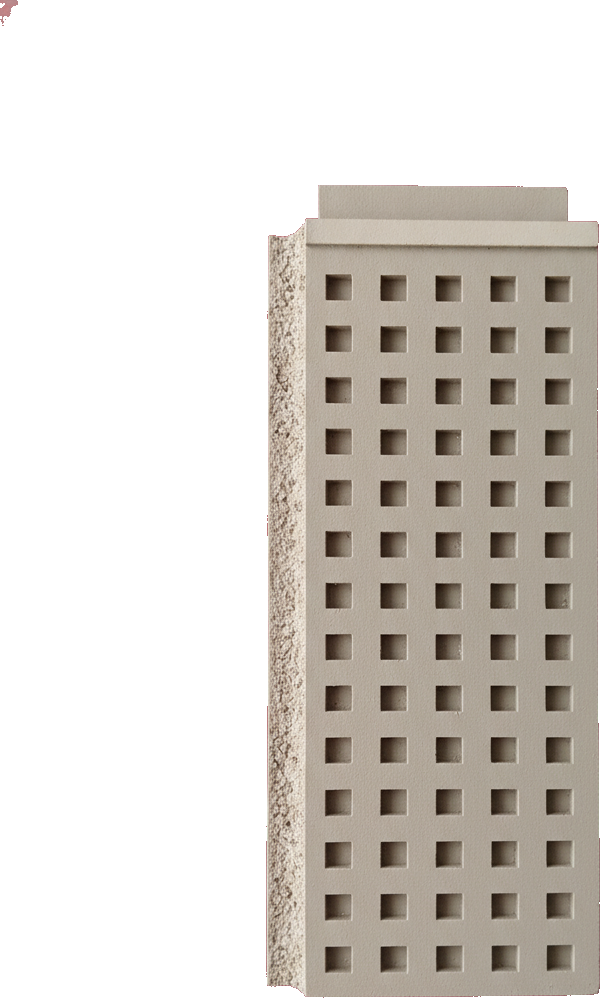
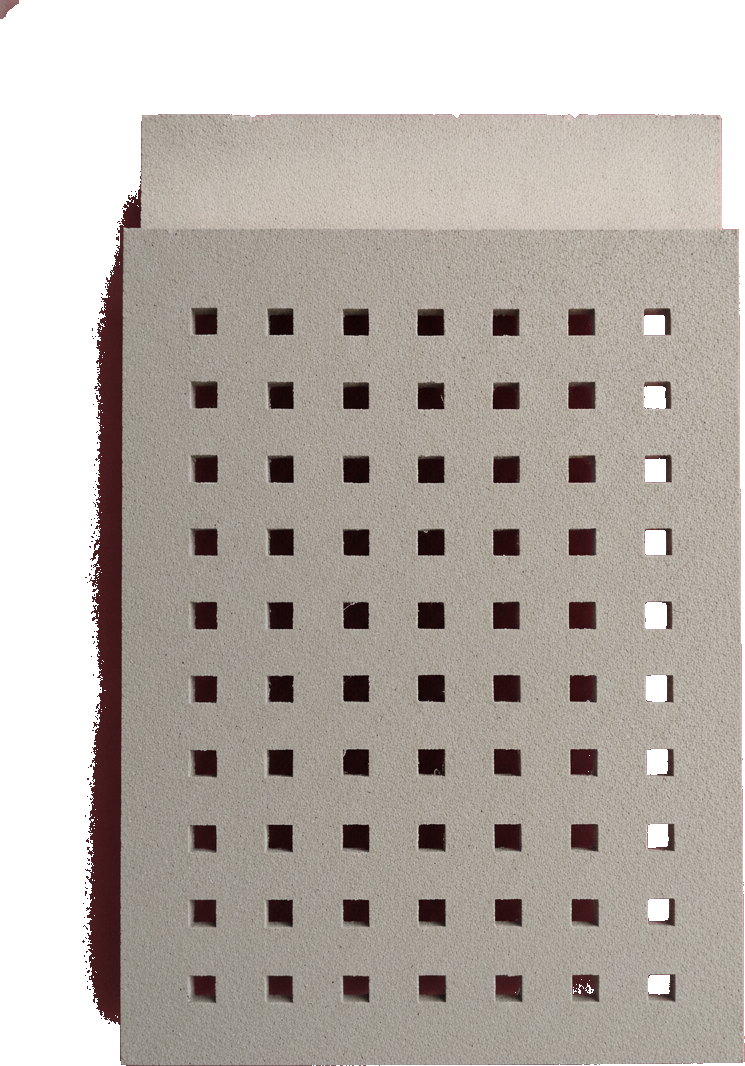
art(eeri): flatten the World 1 library — there is no 3D ground to stand on
The environment is flat planes and a prop meets the world at a single ground
LINE; there is no floor extending back in z. Six of the twelve direction
pieces were photographed from above their own middle and so brought a floor
with them — visible tops of the sacks, inside the buckets, the lid of the
chest, the pallet deck. That is geometry the level cannot honour, not a style
preference, so all six are re-rolled in true elevation.

The README already said "NO three-quarter tabletop/product-render angle" and
it did not prevent any of this, because that names a CAMERA POSITION and a
model can miss it by ten degrees and still feel obedient. Replaced with the
consequence, which has no degrees in it and settles by eye in a second:

    A CIRCLE SEEN IN TRUE ELEVATION IS A STRAIGHT LINE, NOT AN ELLIPSE.

Every offender had an ellipse somewhere — bucket rim, drum barrel, pallet
board, roof cap. Find an ellipse and the camera is off-axis and the piece is
carrying ground. Companion tell, same fact from the other side: if you can see
the top of it or inside it, it is wrong.

Two non-obvious things the pass cost, both now in the README:

  - NEVER ask an elevation piece for anything along its SIDE. "the cut foam
    core showing down one edge" is a request for a second face, and slabtower
    duly turned and grew a dark receding side wall — the exact volume the pass
    exists to remove. Material detail lives on the front face.
[…]

diff --git a/art-src/world-1-library/README.md b/art-src/world-1-library/README.md
@@ -30,20 +30,50 @@ Reference: the current World 1 / Groundworks look.
 
 ### Critical plane rule
 
-The current environment system is made from **flat 2D planes**. Therefore
-library pieces must work when composited onto a flat layer:
+**There is no expanded 3D ground area in this game.** The environment is made
+from **flat 2D planes** and a prop meets the world at a single ground *line* —
+there is no floor extending back in z for anything to stand on. So a piece
+that was photographed from anywhere above its own middle brings a floor with
+it, and the level cannot honour it. This is geometry, not taste.
 
 - NO visible floor plane under an object
 - NO pedestal/base added merely to make a prop stand up
 - NO three-quarter tabletop/product-render angle
 - NO cast shadow that implies an unseen floor
 - NO perspective ground receding toward the horizon
-- prefer frontal or near-side-on cutout construction
+- frontal or dead side-on cutout construction
 - apparent material thickness is allowed at exposed cardboard edges, but the
   overall asset must still read as a flat stage-set/cutout piece
 
 If a prop logically needs ground contact, compose it so its bottom edge simply
 meets the level's existing flat ground line.
+
+#### The elevation test
+
+Naming the camera angle did **not** prevent the problem — six of the first
+twelve direction pieces came back carrying volume anyway, because a model can
+miss "no three-quarter angle" by ten degrees and still feel obedient. Ask for
+the *consequence* instead. It has no degrees in it and it settles in a second:
+
+> **A circle seen in true elevation is a straight LINE, not an ellipse.**
+
+Every offender had an ellipse somewhere — a bucket rim, a drum barrel, a
+pallet board, a roof cap. **If you can find an ellipse, the camera is off-axis
+and the piece is carrying ground.** The companion tell is the same fact from
+the other side: **if you can see the top of it, or inside it, it is wrong** —
+no top face, no lid surface, no open mouth, no upper edge turning away.
+
+Two things follow that are not obvious:
+
+- **Never ask an elevation piece for anything along its side.** Requesting
+  "the cut foam core showing down one edge" is requesting a second face, and
+  the model will turn the object to give you one. Material detail has to live
+  on the front face.
+- **Flatness and craft pull against each other.** Elevation removes the
+  shading that normally sells "handmade", and a model will reach for vector
+  art to fill the gap — flat, obedient, and suddenly clip art. So name the
+  material as *surface* (paper fibre, chalky matte paint, brush marks,
+  hand-cut edges) rather than leaving it to be implied by light.
 
 ### Clouds
 

diff --git a/art-src/world-1-library/INDEX.md b/art-src/world-1-library/INDEX.md
@@ -103,19 +103,27 @@ spread, and a name that ends in its material is a name you can shop by.
 | folder | file | material lead |
 |---|---|---|
 | `background/` | `gantry-steel.png` | painted steel — a pale blue lattice gantry, thin and quiet |
-| `background/` | `slabtower-foam.png` | painted foam board — putty-grey slab, cut core showing down one edge |
+| `background/` | `slabtower-foam.png` | painted foam board — putty-grey slab, bubble grain across the face |
 | `midground/` | `bagstack-kraft.png` | kraft paper — cement sacks stacked on a corrugated pallet |
 | `midground/` | `formwork-balsa.png` | balsa — a braced formwork panel, open grain, A-frame legs |
 | `midground/` | `hoarding-tape.png` | masking tape — a taped-over hoarding, tape *as* the drawing |
 | `midground/` | `liftshaft-brass.png` | brass fasteners — split-pin heads marching up both edges |
 | `foreground/` | `mesh-steel.png` | painted steel — a dark mesh panel to crop against the edge |
 | `foreground/` | `plankcross-balsa.png` | balsa — two planks in an X, cropped by all four edges |
-| `props/` | `cabledrum-kraft.png` | corrugated card — drum flanges showing their flutes side-on |
+| `props/` | `cabledrum-kraft.png` | corrugated card — one flange dead-on, a true circle, fluted rim |
 | `props/` | `mixerbucket-foam.png` | painted foam board — chalky buckets, thick soft-cut rims |
 | `props/` | `toolchest-steel.png` | painted steel — the set's one saturated red |
 | `props/` | `turfroll-felt.png` | wool felt — two turf rolls crossed, the nap doing the work |
 
-**Two things cost a re-roll each, and both are the plane rule** (README §
+**The set was flattened after the first cut.** Six of the twelve came back
+carrying volume — you could see the tops of the sacks, inside the buckets, the
+lid of the chest — and there is **no expanded 3D ground in this game** for any
+of that to stand on. The full rule and the test that catches it now live in
+README § "The elevation test"; the short version is *a circle in true
+elevation is a straight line, not an ellipse*, so an ellipse anywhere means the
+camera is off-axis and the piece is carrying ground.
+
+**Three more things cost a re-roll each, all the plane rule** (README §
 "Critical plane rule"), so they are worth naming:
 
 1. **A cast shadow survives keying.** A shadow on magenta is *dark* magenta,
